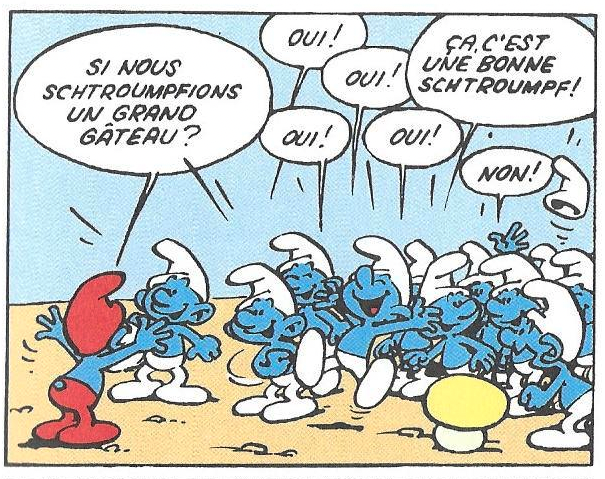
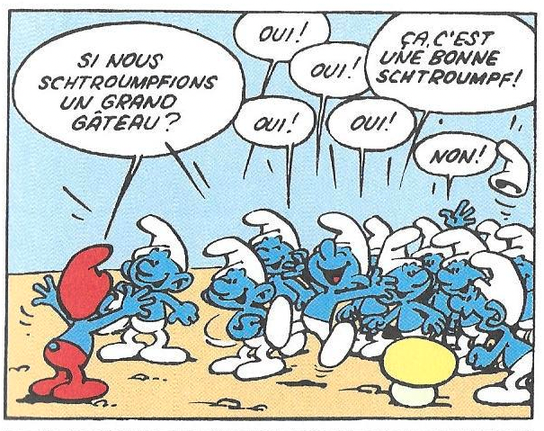
Update ChemBioNA slideshow

diff --git a/content/presentations/chembiona-2925/index.md b/content/presentations/chembiona-2925/index.md
@@ -3,7 +3,7 @@ marp: true
 math: true  # Use default Marp engin for math rendering
 title: "Artificial Intelligence: past, present, future(s)"
 date: 2025-03-20T11:09:44+01:00
-draft: true
+draft: false
 tags:
 - ai
 style: |
@@ -15,9 +15,15 @@ style: |
 ---
 
 <!-- Apply header and footer to first slide only -->
-<!-- _header: "[![ENSC logo](../../../static/images/ENSC_2022.jpg)](https://ensc.bordeaux-inp.fr)" -->
+<!-- _header: "[![ENSC logo](../../../static/images/ENSC_2022.jpg)](https://ensc.bordeaux-inp.fr) [![INRIA logo](../../../static/images/inria_logo.jpg)](https://www.inria.fr)" -->
 <!-- _footer: "[Baptiste Pesquet](https://www.bpesquet.fr)" -->
 <!-- headingDivider: 5 -->
+
+<style scoped>
+  img {
+    padding-right: 40px
+  }
+</style>
 
 # Artificial Intelligence: past, present, future(s)
 
@@ -42,27 +48,18 @@ Kickoff: [1956 Dartmouth workshop on Artificial Intelligence](https://en.wikiped
 
 [![Dartmouth workshop](images/dartmouth_workshop.jpg)](https://spectrum.ieee.org/dartmouth-ai-workshop)
 
+*Image credits: the Marvin Minsky family*
+
 </div>
 </div>
 
-### High hopes
-
-<div class="columns">
-<div>
+### High ambitions
 
 > "Every aspect of learning or any other feature of intelligence can in principle be so precisely described that a machine can be made to simulate it." ([Dartmouth workshop proposal](http://jmc.stanford.edu/articles/dartmouth/dartmouth.pdf), 1956)
 
 > "Machines will be capable, within twenty years, of doing any work a man can do." ([Herbert Simon](https://en.wikipedia.org/wiki/Herbert_A._Simon), 1965)
 
 > "In for three to eight years we will have a machine with the general intelligence of an average human being." ([Marvin Minsky](https://en.wikipedia.org/wiki/Marvin_Minsky), 1970)
-
-</div>
-<div>
-
-![Old school robot](images/old_school_robot.png)
-
-</div>
-</div>
 
 ### What is intelligence, by the way?
 
@@ -89,9 +86,13 @@ Controversial definition, varying in what its abilities are and whether or not i
 
 ![AI timeline](images/ai_timeline.png)
 
+*Image credits: [David Lavenda](https://fr.slideshare.net/slideshow/ai-and-productivity/76251478)*
+
 ### Two competing approaches
 
 [![AI approaches](images/ai_approaches.png)](https://shs.cairn.info/revue-reseaux-2018-5-page-173?lang=fr)
+
+*Image credits: [[Cardon et al., 2018](https://doi.org/10.3917/res.211.0173)]*
 
 ### How to define AI?
 
@@ -111,41 +112,67 @@ Controversial definition, varying in what its abilities are and whether or not i
 
 #### Algorithm #1: K-Nearest Neighbors
 
-Prediction is based on the `k` nearest neighbors of a data sample.
+Prediction is based on the $k$ nearest neighbors of a data sample.
 
 [![K-NN](images/knn.png)](https://en.wikipedia.org/wiki/K-nearest_neighbors_algorithm)
 
 #### Algorithm #2: Decision Trees
 
-Build a tree-like structure based on a series of discovered questions on the data.
+Build a **tree-like structure** based on a series of learned questions on the data.
 
 ![Decision Tree for Iris dataset](images/dt_iris.png)
 
 #### Algorithm #3: Artificial Neural Networks
 
-Layers of loosely neuron-inpired computation units that can approximate any continuous function.
+Layers of **loosely neuron-inpired computation units** that can approximate any continuous function.
+
+<div class="columns">
+<div>
 
 ![MNIST neural network example](images/mnist_nn_3b1b.gif)
 
+</div>
+<div>
+
+*Image credits: [3Blue1Brown](https://www.3blue1brown.com/topics/neural-networks)*
+
+</div>
+</div>
+
 ### The Deep Learning tsunami
 
-Subfield of Machine Learning consisting of multilayered neural networks trained on vast amounts of data.
+Subfield of Machine Learning consisting of **multilayered neural networks** trained on vast amounts of **data**.
 
 [![AlexNet'12 (simplified)](images/alexnet.png)](https://papers.nips.cc/paper/4824-imagenet-classification-with-deep-convolutional-neural-networks.pdf)
 
-> Krizhevsky et al., “ImageNet Classification with Deep Convolutional Neural Networks,”, ([NeurIPS](https://papers.nips.cc/paper_files/paper/2012/hash/c399862d3b9d6b76c8436e924a68c45b-Abstract.html), 2012).
+*Image credits: [[Krizhevsky et al., 2012](https://papers.nips.cc/paper_files/paper/2012/hash/c399862d3b9d6b76c8436e924a68c45b-Abstract.html)]*
 
 In a decade,  outperformed previous SOTA approaches in many fields (computer vision, language, processing, and much more).
 
 ### From labs to everyday life in 25 years
 
+<div class="columns">
+<div>
+
 [![LeCun - LeNet](images/lecun_lenet.gif)](http://yann.lecun.com/exdb/lenet/)
 
+*Image credits: [Yann LeCun](http://yann.lecun.com/exdb/lenet/)*
+
+</div>
+<div>
+
 [![Facial recognition in Chinese elementary school](images/china_school_facial_reco.gif)](https://twitter.com/mbrennanchina/status/1203687857849716736)
+
+*Image credits: [Matthew Brennan](https://x.com/mbrennanchina)*
+
+</div>
+</div>
 
 ### Reasons for success
 
 ![Reasons for DL success](images/dl_reasons_for_success.png)
+
+*Image credits: [DeepMind](https://www.youtube.com/playlist?list=PLqYmG7hTraZCDxZ44o4p3N5Anz3lLRVZF)*
 
 ### Case study: Large Language Models
 
@@ -154,15 +181,17 @@ In a decade,  outperformed previous SOTA approaches in many fields (computer vis
 
 ![ChatGPT letters](images/chat_gpt.png)
 
+*Image credits: [Shutterstock](https://www.shutterstock.com/fr/image-photo/chatgpt-concept-artificial-intelligence-modern-tool-2273533539)*
+
 </div>
 <div>
 
-- *Model*: a function $f$ defining the relationship between inputs (data) and outputs (results).
+- **Model**: a function $f$ defining the relationship between inputs (data) and outputs (results).
 
 $$f(inputs) = outputs$$
 
-- LLM: a (very) large model dedicated to interact with human language.
-- [Introducting ChatGPT](https://openai.com/index/chatgpt/) (November 2022).
+- LLM: a (very) large model designed for language processing tasks.
+- Kickoff: [ChatGPT](https://openai.com/index/chatgpt/), November 2022.
 
 </div>
 </div>
@@ -177,10 +206,10 @@ $$f(inputs) = outputs$$
 </div>
 <div>
 
-> Vaswani et al., “Attention Is All You Need” ([arXiv](http://arxiv.org/abs/1706.03762), 2017).
-
-- Neural network architecture designed to handle sequential data.
+- Neural network architecture designed to handle **sequential data**.
 - Cheaper to train and easier to parallelize than previous approaches.
+
+*Image credits: [[Vaswani et al., 2017](http://arxiv.org/abs/1706.03762)]*
 
 </div>
 </div>
@@ -190,34 +219,110 @@ $$f(inputs) = outputs$$
 <div class="columns">
 <div>
 
-- The next word is predicted via an attention-powered statistical analysis of the other words.
+- The next word is predicted via an **attention**-powered statistical analysis of the other words.
 - This process can be repeated to produce entire texts.
 
 ![Autoregressive model animation](images/deepseek.gif)
+
+*Image credits: [Welch Labs](https://www.youtube.com/watch?v=0VLAoVGf_74)*
 
 </div>
 <div>
 
 ![Smurfs extract (in French)](images/smurfs.png)
 
+*Image credits: [Peyo](https://fr.wikipedia.org/wiki/Peyo)*
+
 </div>
 </div>
 
 #### P for *Pretrained*
 
+<div class="columns">
+<div>
+
+- Models like ChatGPT contain **billions** of internal parameters.
+- They are trained on humongous amounts of data (whole parts of the Internet).
+- These processes have **huge energetical costs**.
+
+</div>
+<div>
+
+![A nuclear power plant](images/GettyImages_nuclear_power_plant.webp)
+
+*Image credits: [Getty](https://www.gettyimages.fr/)*
+
+</div>
+</div>
+
 ## The uncertain future(s) of AI
 
-### Negative externalities
+### AI's growing impact on individuals and society
 
-### The Chinese room argument
+AI has more and more social and societal implications:
 
-![Chinese room](images/chinese_room.png)
+- Job market transformation.
+- Human/machine interactions.
+- Trust and acceptability.
+- Legal aspects and regulation.
+- Fairness.
+- Ethics.
+- Privacy and usage of personal data.
+- ...
+
+### Which AI will prevail?
+
+- **Substitutive intelligence**: replacement of men by machines.
+- **Augmented intelligence**: human-centered AI for performance augmentation & autonomy enhancement.
+- **Hybrid intelligence**: human-machine collaboration on complex tasks.
+
+### The AGI debate
+
+- AGI = **Artificial General Intelligence** a.k.a. **strong AI**
+  - The ability to perform any task as well as a human.
+- Are recent models *sparks of AGI* [[Buceck et al., 2023](https://arxiv.org/abs/2303.12712)] or merely *stochastic parrots* [[Bender et al. 2021](https://dl.acm.org/doi/10.1145/3442188.3445922)]?
 
 ### The technological singularity
 
-![Compared cognitive evolutions](images/singularity.png)
+[![Compared cognitive evolutions](images/singularity.png)](https://www.youtube.com/watch?v=hxL-FwGPGhM)
 
-## Credits and resources
+*Image credits: [Bernard Claverie](https://www.youtube.com/watch?v=hxL-FwGPGhM)*
 
-- [Elements of AI: What is AI?](https://course.elementsofai.com/1)
-- [Comment fonctionne ChatGPT ? Décrypter son nom pour comprendre les modèles de langage](https://theconversation.com/comment-fonctionne-chatgpt-decrypter-son-nom-pour-comprendre-les-modeles-de-langage-206788)
+### The Chinese room argument
+
+Is showing intelligent behavior the same as being intelligent? [[Searle, 1980s](https://iep.utm.edu/chinese-room-argument/)]
+
+![Chinese room](images/chinese_room.png)
+
+*Image credits: [elementsofai](https://course.elementsofai.com/1)*
+
+### The human brain: a masterpiece of evolution
+
+<div class="columns">
+<div>
+
+- Approx. 86 billions neurons in 1.4 kg.
+- Typical energy consumption: 20 W (!)
+- So much of it is still unknown.
+
+</div>
+<div>
+
+![The human brain](images/human_brain.jpg)
+
+</div>
+</div>
+
+### Babies are outstanding learners
+
+![Babies learning roadmap](images/conceptual_acquisition_infants.png)
+
+*Image credits: [Emmanuel Dupoux](https://videolectures.net/videos/icml09_dupoux_hib)*
+
+## Thanks for your attention!
+
+Any questions?
+
+![A freindly robot](images/friendly_robot.jpg)
+
+*Image credits: [Adobe Stock](https://stock.adobe.com/ch_fr/images/friendly-ai-chatbot-robot-character-waving-simple-3d-blue-background-illustration-generative-ai/565068563)*
